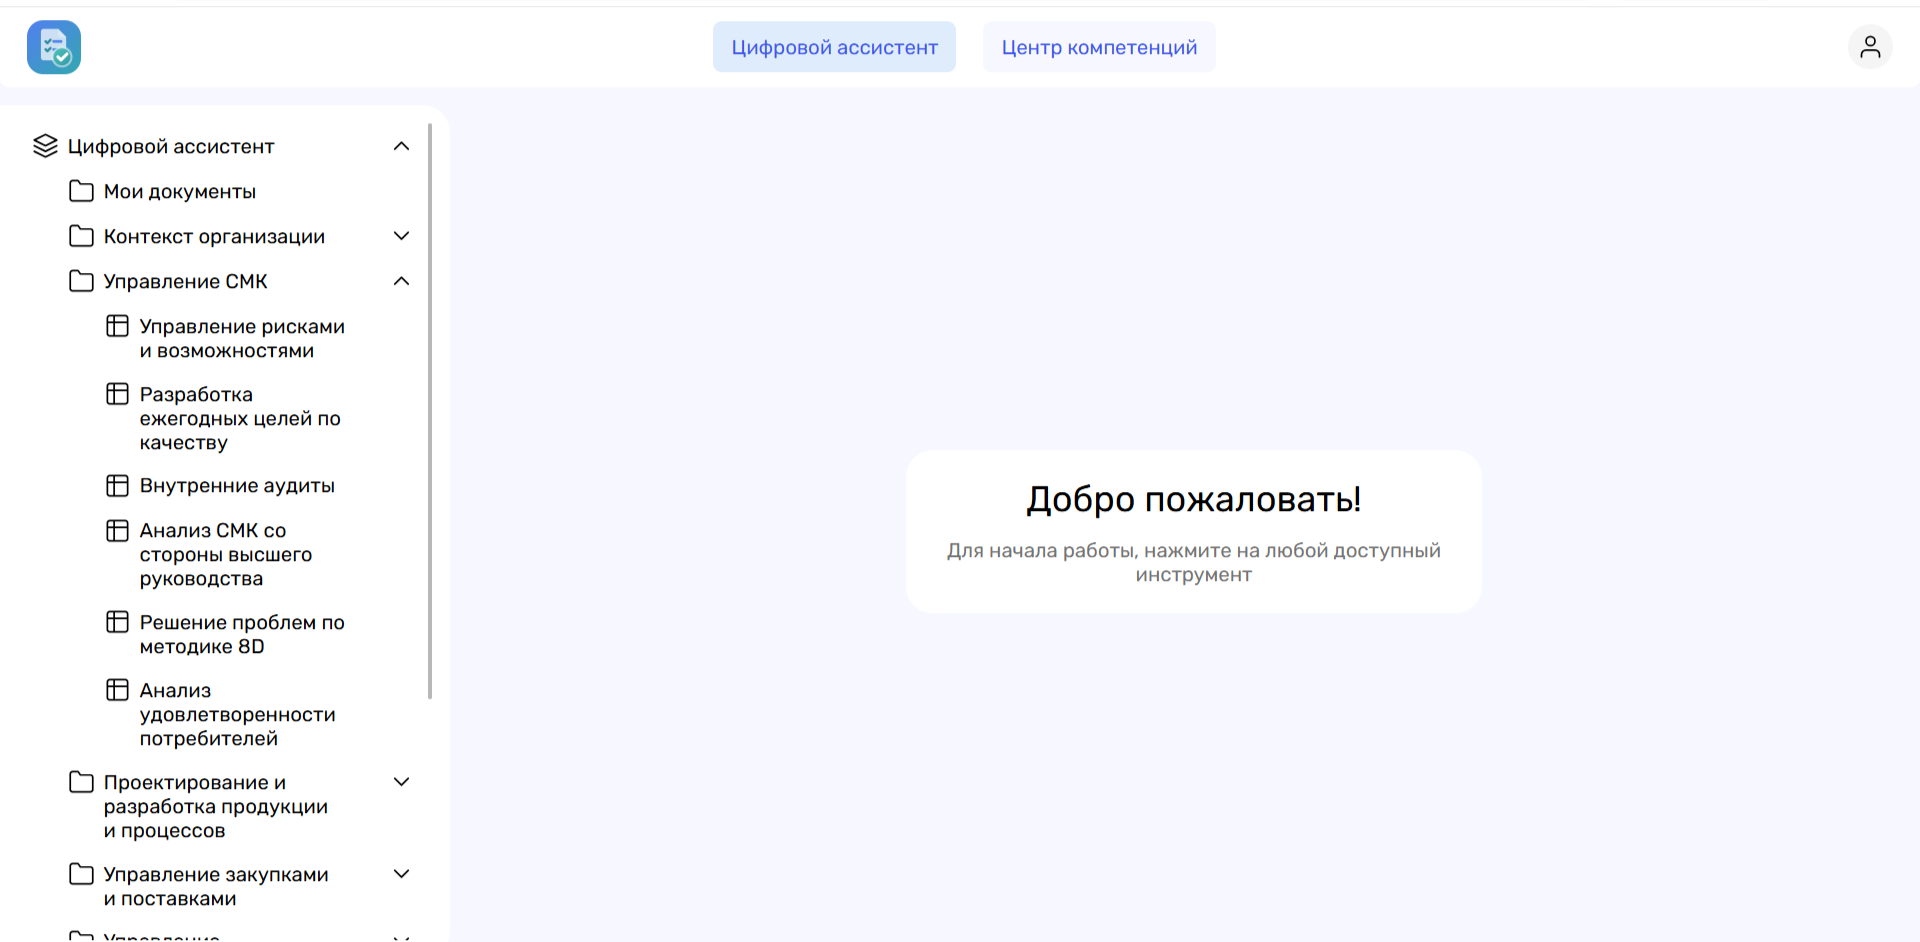
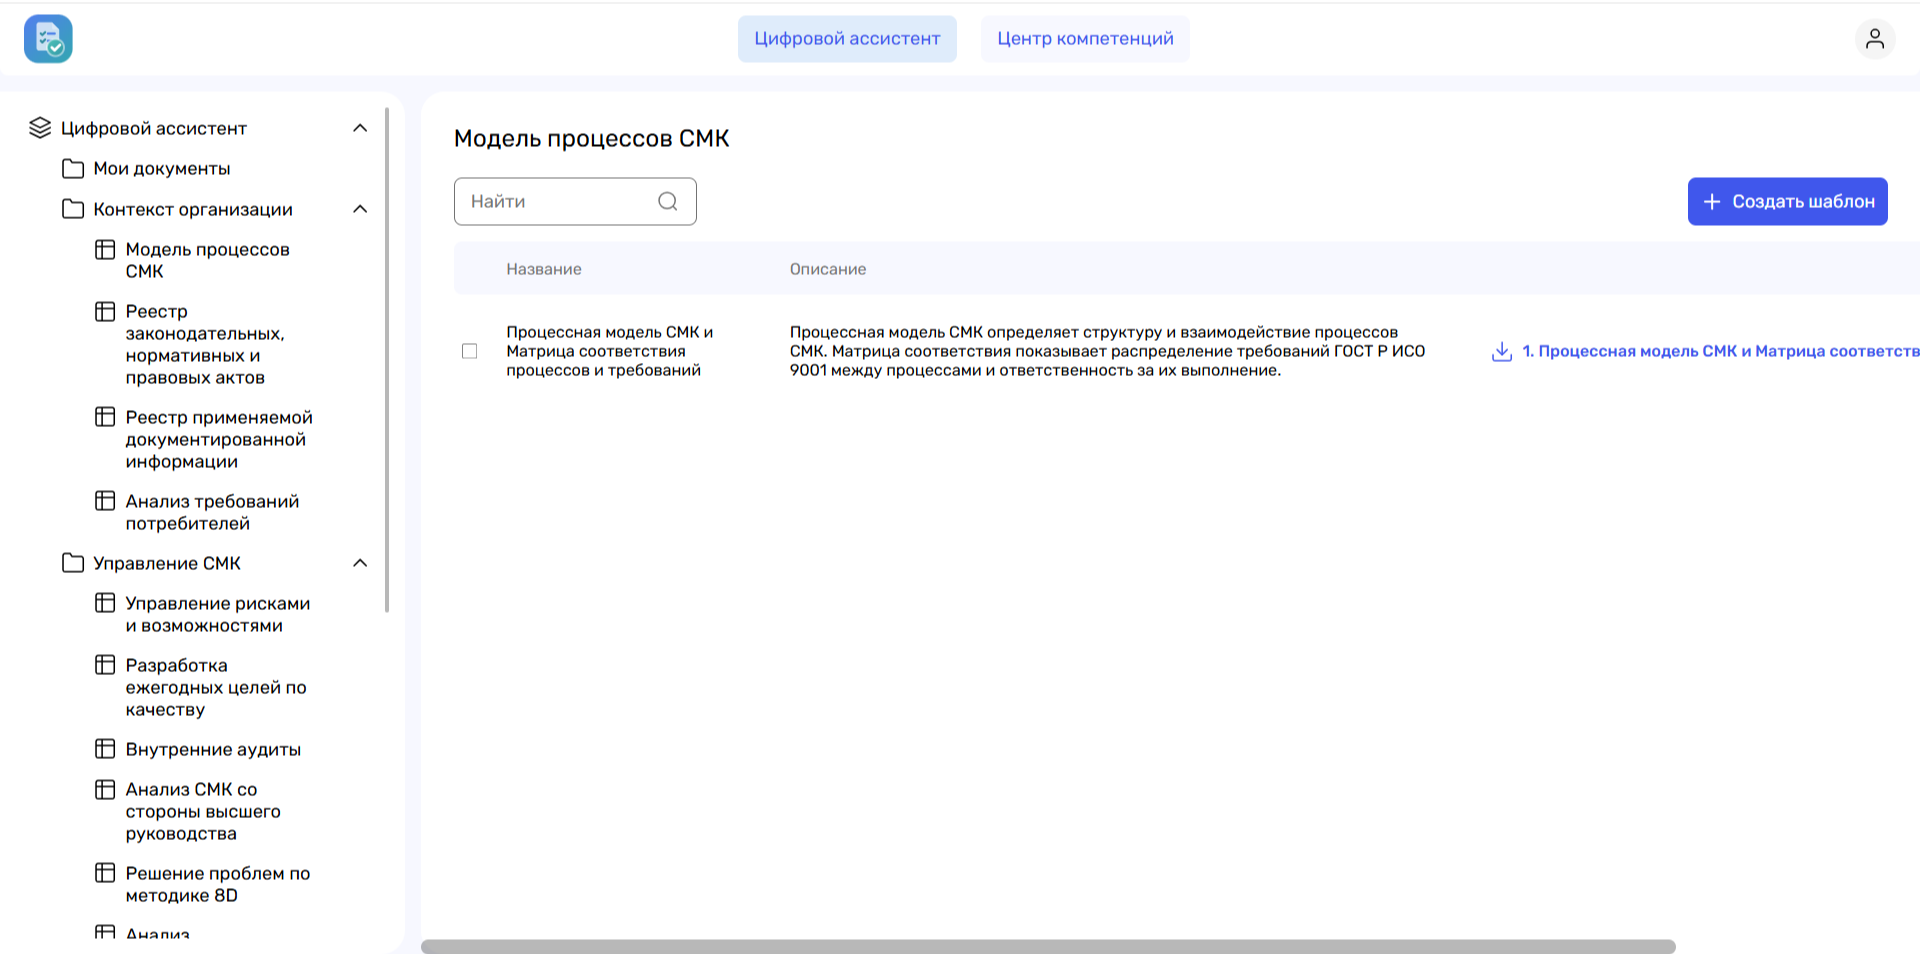
СМК: новый порядок экранов по номерам файлов, убраны подписи и заголовок раздела, правки CTA

diff --git a/smk.html b/smk.html
@@ -200,25 +200,18 @@
 
   <section class="section section-soft" id="demo">
     <div class="wrap">
-      <div class="section-head">
-        <h2>Экраны платформы</h2>
-        <p>Три рабочих экрана продукта: цифровой ассистент, модель процессов СМК и центр компетенций. Листайте стрелками, точками или свайпом.</p>
-      </div>
 
       <div class="shots">
         <div class="shots-viewport" tabindex="0" role="group" aria-label="Экраны платформы: листайте стрелками или свайпом">
           <div class="shots-track">
             <figure class="shot">
               <img src="assets/platform/shot-1.png" alt="Экран платформы: редактор курса в центре компетенций" width="1920" height="956">
-              <figcaption>Центр компетенций: темы, тесты и срок доступа к курсу.</figcaption>
             </figure>
             <figure class="shot">
               <img src="assets/platform/shot-2.png" alt="Экран платформы: рабочий стол цифрового ассистента" width="1920" height="942">
-              <figcaption>Цифровой ассистент: документы и инструменты СМК в одном дереве.</figcaption>
             </figure>
             <figure class="shot">
               <img src="assets/platform/shot-3.png" alt="Экран платформы: модель процессов СМК" width="1920" height="954">
-              <figcaption>Модель процессов СМК: шаблоны и матрица соответствия требованиям.</figcaption>
             </figure>
           </div>
         </div>
@@ -238,12 +231,10 @@
   <section class="cta">
     <div class="wrap cta-inner">
       <div>
-        <h2>Показать платформу на ваших процессах</h2>
-        <p>Возьмём один участок или изделие, соберём демонстрационный контур и покажем, как выглядят данные, риски и паспорт на вашем примере.</p>
+        <h2>Демонстрация на ваших процессах</h2>
       </div>
       <div class="actions">
         <a class="btn btn-primary" href="contacts.html">Запросить демонстрацию <span class="arrow">→</span></a>
-        <a class="btn btn-ghost" href="robotization.html">Роботизация</a>
       </div>
     </div>
   </section>

diff --git a/assets/styles.css b/assets/styles.css
@@ -682,14 +682,6 @@ td { color: var(--muted); }
   flex-direction: column;
 }
 .shot img { display: block; width: 100%; height: auto; background: #fff; }
-.shot figcaption {
-  margin-top: auto;
-  padding: 12px 16px 14px;
-  border-top: 1px solid var(--line);
-  font-size: 0.85rem;
-  color: var(--muted);
-}
-
 .shots-bar {
   display: flex;
   align-items: center;
@@ -727,7 +719,6 @@ td { color: var(--muted); }
 
 @media (max-width: 620px) {
   .shots-btn { width: 38px; height: 38px; }
-  .shot figcaption { font-size: 0.8rem; }
 }
 
 /* ---------- совет директоров ---------- */
